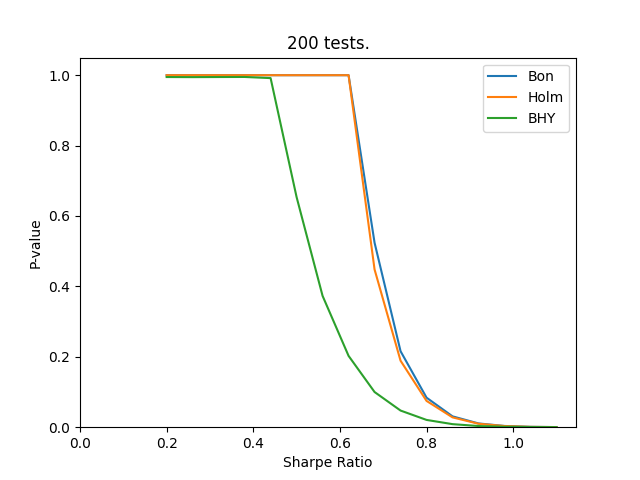
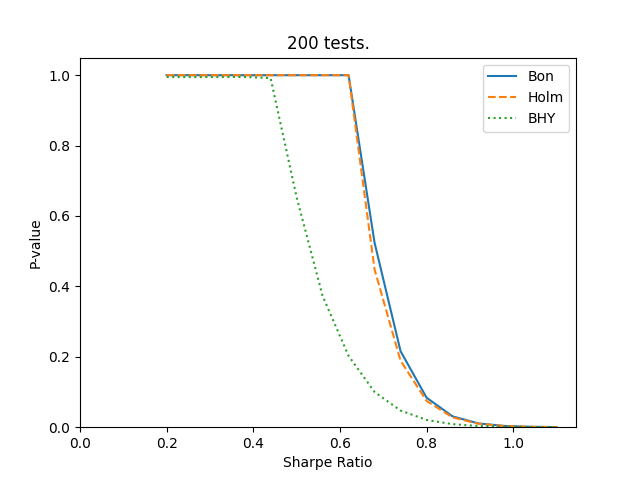
linestyles

diff --git a/charvey/haircut_sr.py b/charvey/haircut_sr.py
@@ -207,12 +207,13 @@ def replicate_paper_plots():
 
         outputs = ['P-value', 'Haircut Sharpe Ratio', 'Haircut pct']
         methods = ['Bon', 'Holm', 'BHY']
+        linestyles = ['-', '--', ':']
 
         for output_idx, output in enumerate(outputs):
 
             fig, ax = plt.subplots()
             for idx, method in enumerate(methods):
-                ax.plot(srs, results[:, output_idx, idx], label=method)
+                ax.plot(srs, results[:, output_idx, idx], label=method, linestyle=linestyles[idx])
 
             if output == 'Haircut pct':
                 ax.hlines(0.5, 0, srs[-1], color='black', alpha=0.5)
